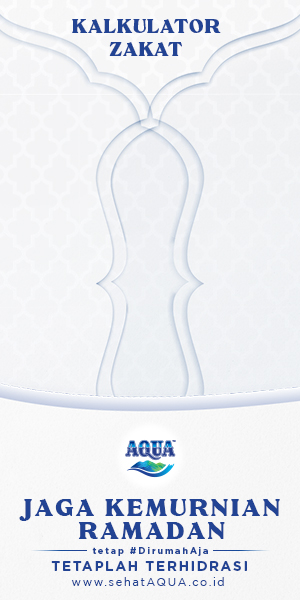
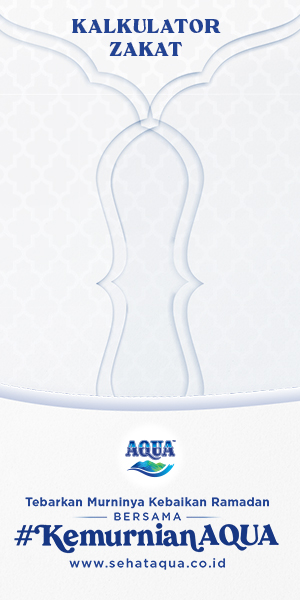
update

Changed region(s): [[0.06, 0.81, 0.93, 0.99]]

diff --git a/idn/preview/timesignal/idntimes/src/desktop-tvc.html b/idn/preview/timesignal/idntimes/src/desktop-tvc.html
@@ -1,13 +1,14 @@
 <html>
     <body style="margin: 0;">
-         <style>
+        <style>
             @import url("https://ads.idntimes.com/ads-assets/internal/css/ramadhan2020/css-idntimes.css");
-            @import url("https://ads.idntimes.com/ads-assets/internal/css/ramadhan2020/wts-mobile.css");
-             .jadwal-box {
-                 left: 31px;
-                 top: 177px;
-             }
+            @import url("https://ads.idntimes.com/ads-assets/internal/css/ramadhan2020/wts-desktop.css?upv1");
+            .jadwal-box {
+                top: 10px;
+                right: 20px;
+            }
         </style>
+        
         <div class="wts clearfix">
             <a href="{landingpage}" target="_blank" class="landingpage"></a>
             <div class="jadwal-box">
@@ -18,8 +19,8 @@
                     <div class="wts-day"></div>
                 </div>
             </div>
-            
-            <img src="320x600.jpg">
+            <iframe width="300" height="168" src="https://www.youtube.com/embed/BZofMLLOM7s?modestbranding=1&autoplay=1&mute=1&controls=1&showinfo=1&disablekb=1" frameborder="0" allow="accelerometer; autoplay; encrypted-media; gyroscope; picture-in-picture" allowfullscreen style="position: absolute; left: 20px; top: 66px;"></iframe>
+            <img src="1080x300-tvc.gif">
         </div>
 
         <script src="https://ads.idntimes.com/ads-assets/internal/js/ramadhan2020/js-idntimes.js" type="text/javascript"></script>
@@ -27,7 +28,7 @@
         
         <script>
             $(function() {
-                var currentDay = 0;
+                var currentDay = 1;
                 var dataCities = [];
                 $.each( cities, function( key, city ) {
                     dataCities.push({
@@ -49,8 +50,9 @@
         </script>
         <script type="text/javascript">
             if(top!=self){
-                window.frameElement.style = 'width: 320px; height: 600px; margin-bottom: 10px; left: 50%; transform: translateX(-50%); position: relative;';
+                window.frameElement.style = 'position: relative; width: 1080px; height: 300px; margin-bottom: 10px; left: 50%; transform: translateX(-50%)';
             };
         </script>
+                
     </body>
 </html>

diff --git a/idn/preview/timesignal/idntimes/src/mobile-tvc.html b/idn/preview/timesignal/idntimes/src/mobile-tvc.html
@@ -5,7 +5,7 @@
             @import url("https://ads.idntimes.com/ads-assets/internal/css/ramadhan2020/wts-mobile.css");
              .jadwal-box {
                  left: 31px;
-                 top: 177px;
+                 top: 192px;
              }
         </style>
         <div class="wts clearfix">
@@ -18,8 +18,8 @@
                     <div class="wts-day"></div>
                 </div>
             </div>
-            
-            <img src="320x600.jpg">
+            <iframe width="224" height="126" src="https://www.youtube.com/embed/BZofMLLOM7s?modestbranding=1&autoplay=1&mute=1&controls=1&showinfo=1&disablekb=1" frameborder="0" allow="accelerometer; autoplay; encrypted-media; gyroscope; picture-in-picture" allowfullscreen style="position: absolute; left: 48px; top: 56px;"></iframe>
+            <img src="320x600-tvc.gif">
         </div>
 
         <script src="https://ads.idntimes.com/ads-assets/internal/js/ramadhan2020/js-idntimes.js" type="text/javascript"></script>

diff --git a/idn/preview/timesignal/idntimes/src/desktop.html b/idn/preview/timesignal/idntimes/src/desktop.html
@@ -2,7 +2,13 @@
     <body style="margin: 0;">
         <style>
             @import url("https://ads.idntimes.com/ads-assets/internal/css/ramadhan2020/css-idntimes.css");
-            @import url("https://ads.idntimes.com/ads-assets/internal/css/ramadhan2020/wts-desktop.css");
+            @import url("https://ads.idntimes.com/ads-assets/internal/css/ramadhan2020/wts-desktop.css?upv1");
+            .jadwal-box {
+                top: 10px;
+                left: 0;
+                right: 0;
+                margin: auto;
+            }
         </style>
         
         <div class="wts clearfix">
@@ -15,7 +21,7 @@
                     <div class="wts-day"></div>
                 </div>
             </div>
-            <img src="https://ads.idntimes.com/ads-assets/client/aqua/bg-desktop.gif">
+            <img src="1080x300.gif">
         </div>
 
         <script src="https://ads.idntimes.com/ads-assets/internal/js/ramadhan2020/js-idntimes.js" type="text/javascript"></script>

diff --git a/idn/preview/timesignal/idntimes/index.html b/idn/preview/timesignal/idntimes/index.html
@@ -664,6 +664,9 @@ function callAnalytics(path, queryString) {
                 <!-- widget time signal ramadhan 2020 aqua -->
                 <iframe src="src/desktop.html" width="1" height="1" frameborder="0" scrolling="no"></iframe>
                 
+                <div style="padding: 10px"></div>
+                <iframe src="src/desktop-tvc.html" width="1" height="1" frameborder="0" scrolling="no"></iframe>
+                
                 
                 
                 

diff --git a/idn/preview/timesignal/idntimes/index-m.html b/idn/preview/timesignal/idntimes/index-m.html
@@ -797,6 +797,8 @@ function callAnalytics(path, queryString) {
         
        <!-- widget time signal ramadhan 2020 aqua -->
                 <iframe src="src/mobile.html" width="1" height="1" frameborder="0" scrolling="no"></iframe>
+        <div style="padding: 10px;"></div>
+                <iframe src="src/mobile-tvc.html" width="1" height="1" frameborder="0" scrolling="no"></iframe>
         
         
         

diff --git a/idn/preview/timesignal/idntimes/src/wts-desktop.css b/idn/preview/timesignal/idntimes/src/wts-desktop.css
@@ -11,10 +11,6 @@
     width: 260px;
     z-index: 2;
     position: absolute;
-    top: 10px;
-    left: 0;
-    right: 0;
-    margin: auto;
 }
 .wts {
     position: relative;

diff --git a/idn/preview/timesignal/idntimes/src/wts-mobile.css b/idn/preview/timesignal/idntimes/src/wts-mobile.css
@@ -11,8 +11,6 @@
     width: 260px;
     z-index: 2;
     position: absolute;
-    top: 180px;
-    left: 30px;
 }
 .wts {
     position: relative;
